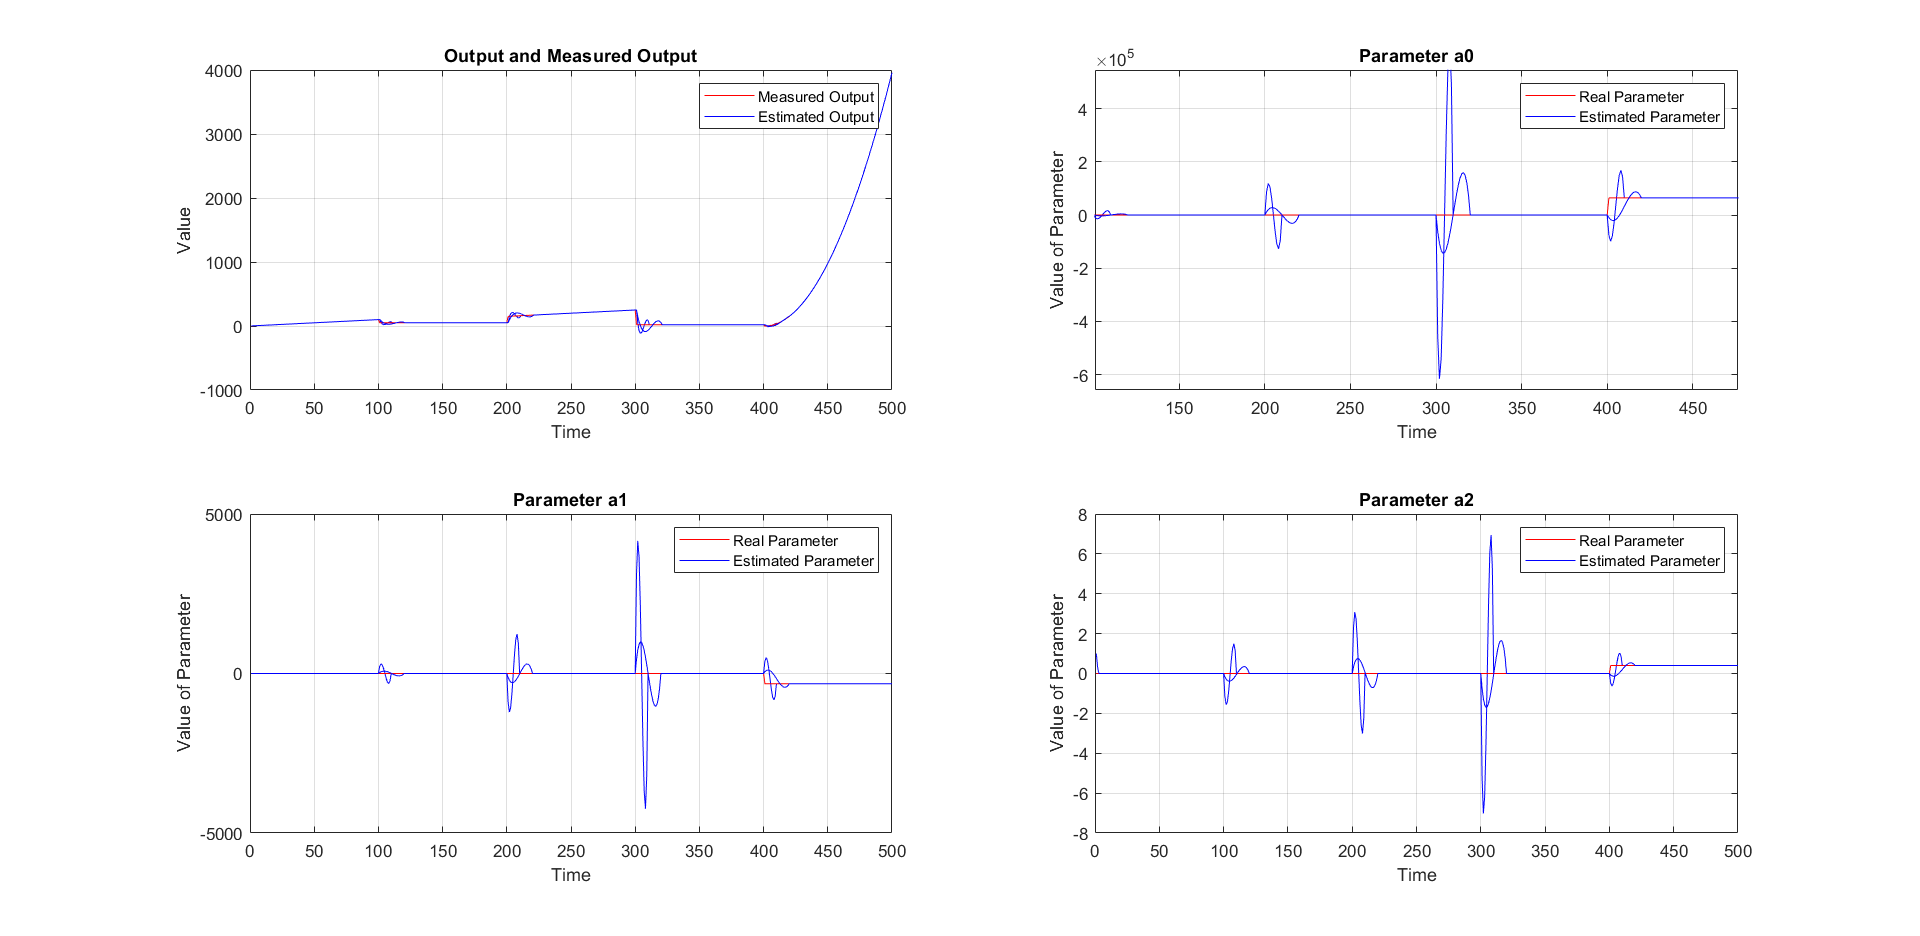
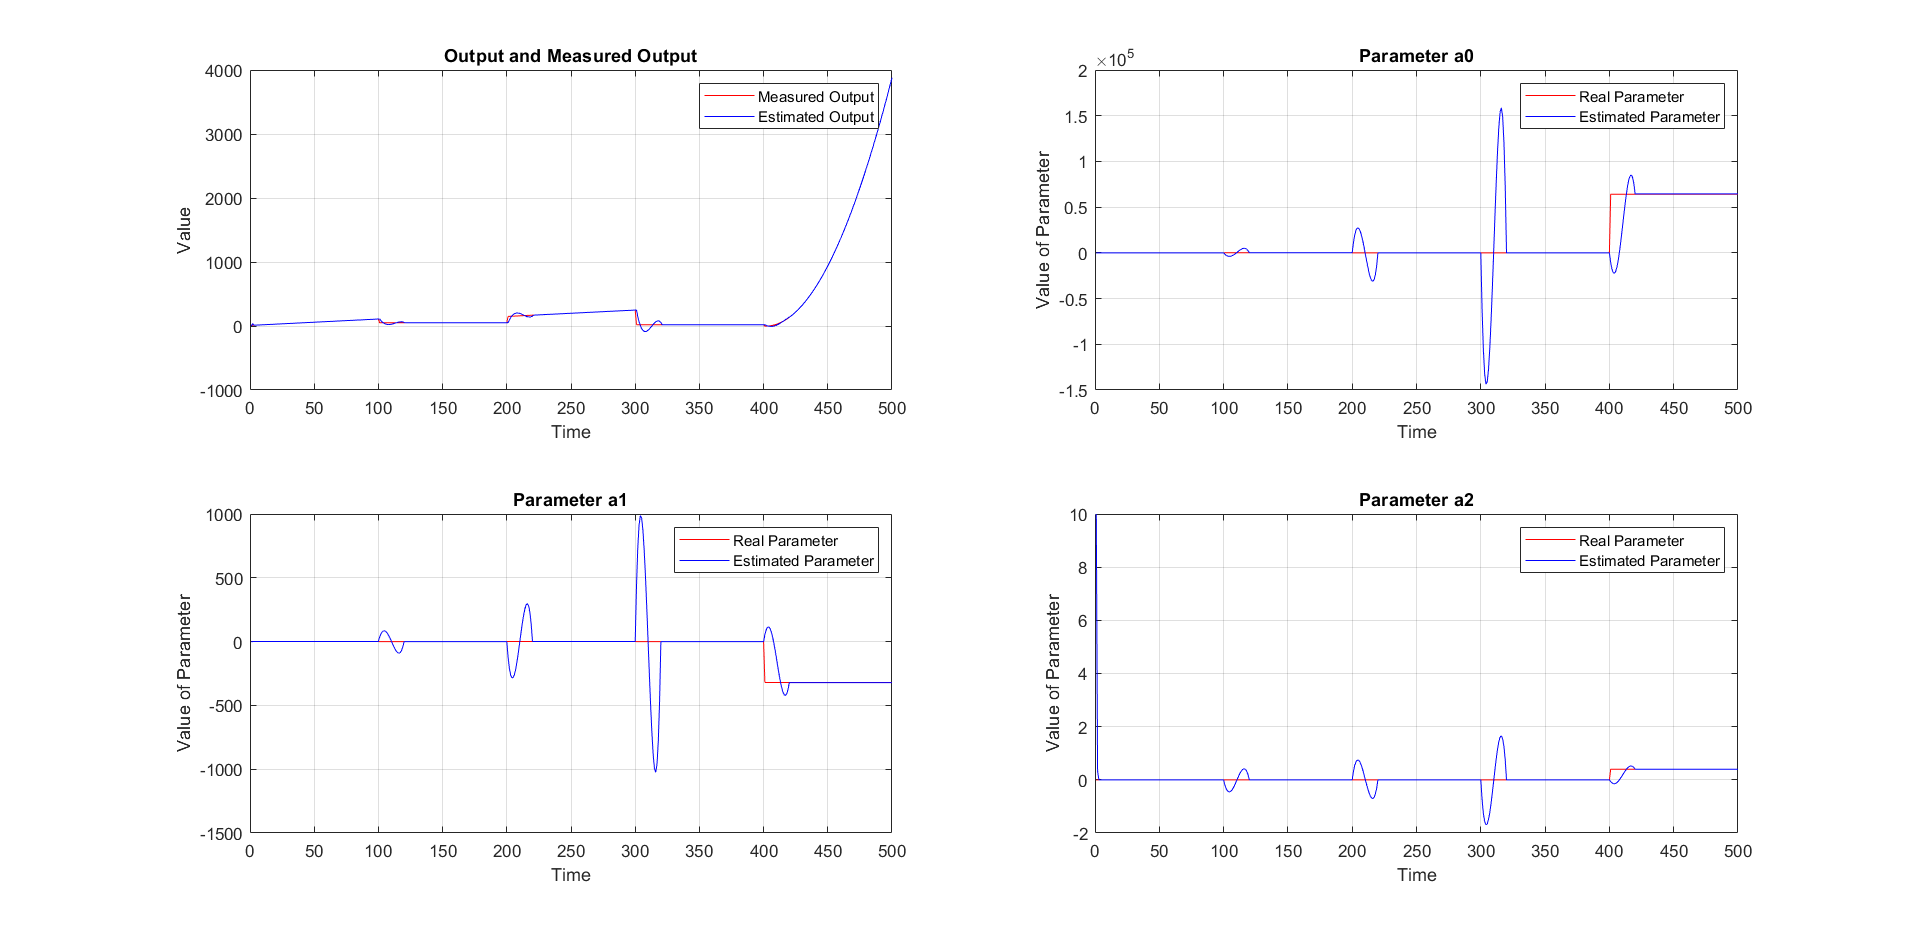
Corrections to files

diff --git a/examples/RLS_testing.cpp b/examples/RLS_testing.cpp
@@ -14,16 +14,10 @@ int main() {
 	//Generate Data for Validation
 	double Y[len] = { 0. };
 	double X[len] = { 0. };
-	
+	 
 
-	double counter = 0.;
-	const double mean = 0.0;
-	const double stddev = 5;
-	std::default_random_engine generator;
-	std::normal_distribution<double> dist(mean, stddev);
-
-	fstream OutFile("C:/Users/nicks/rls/MATLAB/TXT-Files/PolyRLS/Test_Output.txt", ios::in);
-	fstream InFile("C:/Users/nicks/rls/MATLAB/TXT-Files/PolyRLS/Test_Input.txt", ios::in);
+	fstream OutFile("C:/Users/nicks/rls/testing/exp_testing/TXT-Files/PolyRLS/Test_Output.txt", ios::in);
+	fstream InFile("C:/Users/nicks/rls/testing/exp_testing/TXT-Files/PolyRLS/Test_Input.txt", ios::in);
 
 	double value;
 	int i = 0;
@@ -42,10 +36,7 @@ int main() {
 	}
 
 
-	// Add Gaussian noise and Write Output//
-	for (int i = 0; i < 500; i++) {
-		//Y[i] = Y[i] + dist(generator);
-	}
+	
 
 	//Test the "Set" and "Get" Functions in the class//
 	PolyRLS<double, 2> Test_Alg(1., 10000);
@@ -125,9 +116,9 @@ int main() {
 	ofstream outFile1;
 	ofstream outFile2;
 	ofstream outFile_out_2;
-	outFile1.open("C:/Users/nicks/rls/MATLAB/TXT-Files/PolyRLS/Test2_Param_a0.txt");
-	outFile2.open("C:/Users/nicks/rls/MATLAB/TXT-Files/PolyRLS/Test2_Param_a1.txt");
-	outFile_out_2.open("C:/Users/nicks/rls/MATLAB/TXT-Files/PolyRLS/Test2_Est_Output.txt");
+	outFile1.open("C:/Users/nicks/rls/testing/exp_testing/TXT-Files/PolyRLS/Test2_Param_a0.txt");
+	outFile2.open("C:/Users/nicks/rls/testing/exp_testing/TXT-Files/PolyRLS/Test2_Param_a1.txt");
+	outFile_out_2.open("C:/Users/nicks/rls/testing/exp_testing/TXT-Files/PolyRLS/Test2_Est_Output.txt");
 
 	for (int i = 0; i < 500; i++) {
 		cout << "Here is estimated output: " << Alg_2.getEstimatedOutput() << endl;
@@ -155,10 +146,10 @@ int main() {
 	ofstream outFile4;
 	ofstream outFile5;
 	ofstream outFile_out_3;
-	outFile3.open("C:/Users/nicks/rls/MATLAB/TXT-Files/PolyRLS/Test3_Param_a0.txt");
-	outFile4.open("C:/Users/nicks/rls/MATLAB/TXT-Files/PolyRLS/Test3_Param_a1.txt");
-	outFile5.open("C:/Users/nicks/rls/MATLAB/TXT-Files/PolyRLS/Test3_Param_a2.txt");
-	outFile_out_3.open("C:/Users/nicks/rls/MATLAB/TXT-Files/PolyRLS/Test3_Est_Output.txt");
+	outFile3.open("C:/Users/nicks/rls/testing/exp_testing/TXT-Files/PolyRLS/Test3_Param_a0.txt");
+	outFile4.open("C:/Users/nicks/rls/testing/exp_testing/TXT-Files/PolyRLS/Test3_Param_a1.txt");
+	outFile5.open("C:/Users/nicks/rls/testing/exp_testing/TXT-Files/PolyRLS/Test3_Param_a2.txt");
+	outFile_out_3.open("C:/Users/nicks/rls/testing/exp_testing/TXT-Files/PolyRLS/Test3_Est_Output.txt");
 
 	for (int i = 0; i < 500; i++) {
 		cout << "Here is estimated output: " << Alg_3.getEstimatedOutput() << endl;
@@ -250,10 +241,10 @@ int main() {
 	ofstream outFileGen2;
 	ofstream outFileGen3;
 	ofstream outFile_out_Gen;
-	outFileGen1.open("C:/Users/nicks/rls/MATLAB/TXT-Files/GenRLS/TestGen_Param_a0.txt");
-	outFileGen2.open("C:/Users/nicks/rls/MATLAB/TXT-Files/GenRLS/TestGen_Param_a1.txt");
-	outFileGen3.open("C:/Users/nicks/rls/MATLAB/TXT-Files/GenRLS/TestGen_Param_a2.txt");
-	outFile_out_Gen.open("C:/Users/nicks/rls/MATLAB/TXT-Files/GenRLS/TestGen_Est_Output.txt");
+	outFileGen1.open("C:/Users/nicks/rls/testing/exp_testing/TXT-Files/GenRLS/TestGen_Param_a0.txt");
+	outFileGen2.open("C:/Users/nicks/rls/testing/exp_testing/TXT-Files/GenRLS/TestGen_Param_a1.txt");
+	outFileGen3.open("C:/Users/nicks/rls/testing/exp_testing/TXT-Files/GenRLS/TestGen_Param_a2.txt");
+	outFile_out_Gen.open("C:/Users/nicks/rls/testing/exp_testing/TXT-Files/GenRLS/TestGen_Est_Output.txt");
 
 	for (int i = 0; i < 500; i++) {
 		Reg(1) = i;
@@ -277,7 +268,7 @@ int main() {
 	outFile_out_Gen.close();
 
 	//Test 6: Testing Rectangular Window Approach
-	BlockRLS<double, 3> Test_Block(0.9,10, 100000.);
+	BlockRLS<double, 3> Test_Block(1,10,10000.);
 	cout << "|---------Now we are going to test the Block RLS function with the regressors of the---------|" << endl;
 	cout << "|---------polynomial to check the results---------|" << endl;
 	cout << '\n';
@@ -286,10 +277,10 @@ int main() {
 	ofstream outFileBlock2;
 	ofstream outFileBlock3;
 	ofstream outFile_out_Block;
-	outFileBlock1.open("C:/Users/nicks/rls/MATLAB/TXT-Files/BlockRLS/TestBlock_Param_a0.txt");
-	outFileBlock2.open("C:/Users/nicks/rls/MATLAB/TXT-Files/BlockRLS/TestBlock_Param_a1.txt");
-	outFileBlock3.open("C:/Users/nicks/rls/MATLAB/TXT-Files/BlockRLS/TestBlock_Param_a2.txt");
-	outFile_out_Block.open("C:/Users/nicks/rls/MATLAB/TXT-Files/BlockRLS/TestBlock_Est_Output.txt");
+	outFileBlock1.open("C:/Users/nicks/rls/testing/rec_testing/TXT-Files/BlockRLS/TestBlock_Param_a0.txt");
+	outFileBlock2.open("C:/Users/nicks/rls/testing/rec_testing/TXT-Files/BlockRLS/TestBlock_Param_a1.txt");
+	outFileBlock3.open("C:/Users/nicks/rls/testing/rec_testing/TXT-Files/BlockRLS/TestBlock_Param_a2.txt");
+	outFile_out_Block.open("C:/Users/nicks/rls/testing/rec_testing/TXT-Files/BlockRLS/TestBlock_Est_Output.txt");
 	for (int i = 0; i < 500; i++) {
 		Reg(1) = i;
 		Reg(2) = i * i;

diff --git a/source/RLS_Estimation_Object.h b/source/RLS_Estimation_Object.h
@@ -193,10 +193,9 @@ namespace RLS {
 		BlockRLS(double lam,int win, double init)
 			: RLS_Estimator<T, N>(lam, init),
 			window(win),
-			check(0),
 			pout(Type_Vec(win + 1, fill::zeros)),
-			pin(Type_Mat(N, win + 1, fill::zeros)),
-			remove(false) {
+			pin(Type_Mat(N, win + 1, fill::zeros))
+		 {
 			for (int i = 0; i < N; i++) {
 				pin(i, win - N + i) = 1. / sqrt(init_covar);
 			}
@@ -214,11 +213,8 @@ namespace RLS {
 			
 			pout(window) = data;
 
-			check += 1; //Raise check for when array is full
 			temp = P_matrix * phi;
-			if (check > window ) {
-				remove = true;
-			}
+			
 
 			K = temp / (dot(phi, temp) + lambda);
 
@@ -263,7 +259,7 @@ namespace RLS {
 
 				}
 			}
-			
+
 			
 			
 		};
@@ -276,7 +272,7 @@ namespace RLS {
 			P_matrix = Type_Mat(N, N, fill::eye) * init_covar;
 			pin = Type_Mat(N, window+1, fill::zeros);
 			for (int i = 0; i < N; i++) {
-				pin(i, win - N + i) = 1. / sqrt(init_covar);
+				pin(i, win - N + i) = 1.;
 			}
 			pout = Type_Vec(window+1, fill::zeros);
 			K = Type_Vec(N, fill::zeros);
@@ -284,8 +280,6 @@ namespace RLS {
 			temp = Type_Vec(N, fill::zeros);
 			lambda = 1.;
 			cost = 0;
-			check = 0;
-			remove = false;
 			error = 0;
 			num_update = 0;
 		};

diff --git a/testing/rec_testing/code/BlockRLS.m b/testing/rec_testing/code/BlockRLS.m
@@ -1,13 +1,13 @@
 clear all;
 %Take Data from C++ for graphing in testing\rec_testing%
-output =   dlmread("..\rls\testing\rec_testing\TXT-Files\PolyRLS\Test_Output.txt");
+output =   dlmread("..\rls\testing\exp_testing\TXT-Files\PolyRLS\Test_Output.txt");
 Test3_a0 = dlmread("..\rls\testing\rec_testing\TXT-Files\BlockRLS\TestBlock_Param_a0.txt");
 Test3_a1 = dlmread("..\rls\testing\rec_testing\TXT-Files\BlockRLS\TestBlock_Param_a1.txt");
 Test3_a2 = dlmread("..\rls\testing\rec_testing\TXT-Files\BlockRLS\TestBlock_Param_a2.txt");
 Test3_est = dlmread("..\rls\testing\rec_testing\TXT-Files\BlockRLS\TestBlock_Est_Output.txt");
-S1 = load('..\rls\testing\rec_testing\MAT_Files\true_a0.mat');
-S2 = load('..\rls\testing\rec_testing\MAT_Files\true_a1.mat');
-S3 = load('..\rls\testing\rec_testing\MAT_Files\true_a2.mat');
+S1 = load('..\rls\testing\rec_testing\MAT-Files\true_a0.mat');
+S2 = load('..\rls\testing\rec_testing\MAT-Files\true_a1.mat');
+S3 = load('..\rls\testing\rec_testing\MAT-Files\true_a2.mat');
 
 true_a0 = S1.true_a0();
 true_a1 = S2.true_a1();

diff --git a/testing/rec_testing/code/Block_Test.m b/testing/rec_testing/code/Block_Test.m
@@ -2,11 +2,11 @@ clear all;
 obj = recursiveLS(3, 'History','Finite','WindowLength',10);
 obj.ForgettingFactor = 1;
 
-output =   dlmread("..\rls\testing\rec_testing\TXT-Files\PolyRLS\Test_Output.txt");
-S2 = load('..\rls\testing\rec_testing\MAT_Files\input.mat');
-S3 = load('..\rls\testing\rec_testing\MAT_Files\true_a0.mat');
-S4 = load('..\rls\testing\rec_testing\MAT_Files\true_a1.mat');
-S5 = load('..\rls\testing\rec_testing\MAT_Files\true_a2.mat');
+output =   dlmread("..\rls\testing\exp_testing\TXT-Files\PolyRLS\Test_Output.txt");
+S2 = load('..\rls\testing\rec_testing\MAT-Files\input.mat');
+S3 = load('..\rls\testing\rec_testing\MAT-Files\true_a0.mat');
+S4 = load('..\rls\testing\rec_testing\MAT-Files\true_a1.mat');
+S5 = load('..\rls\testing\rec_testing\MAT-Files\true_a2.mat');
 
 
 input  = S2.input();
